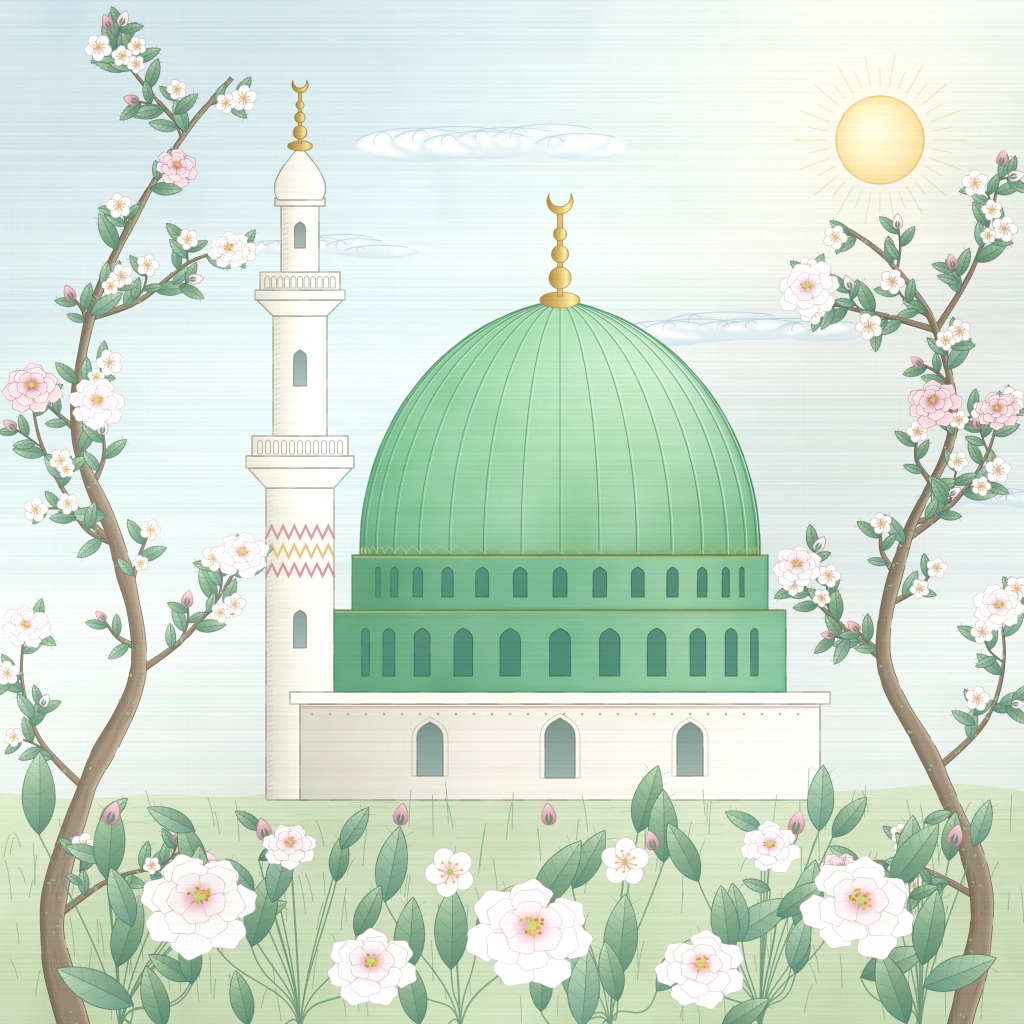
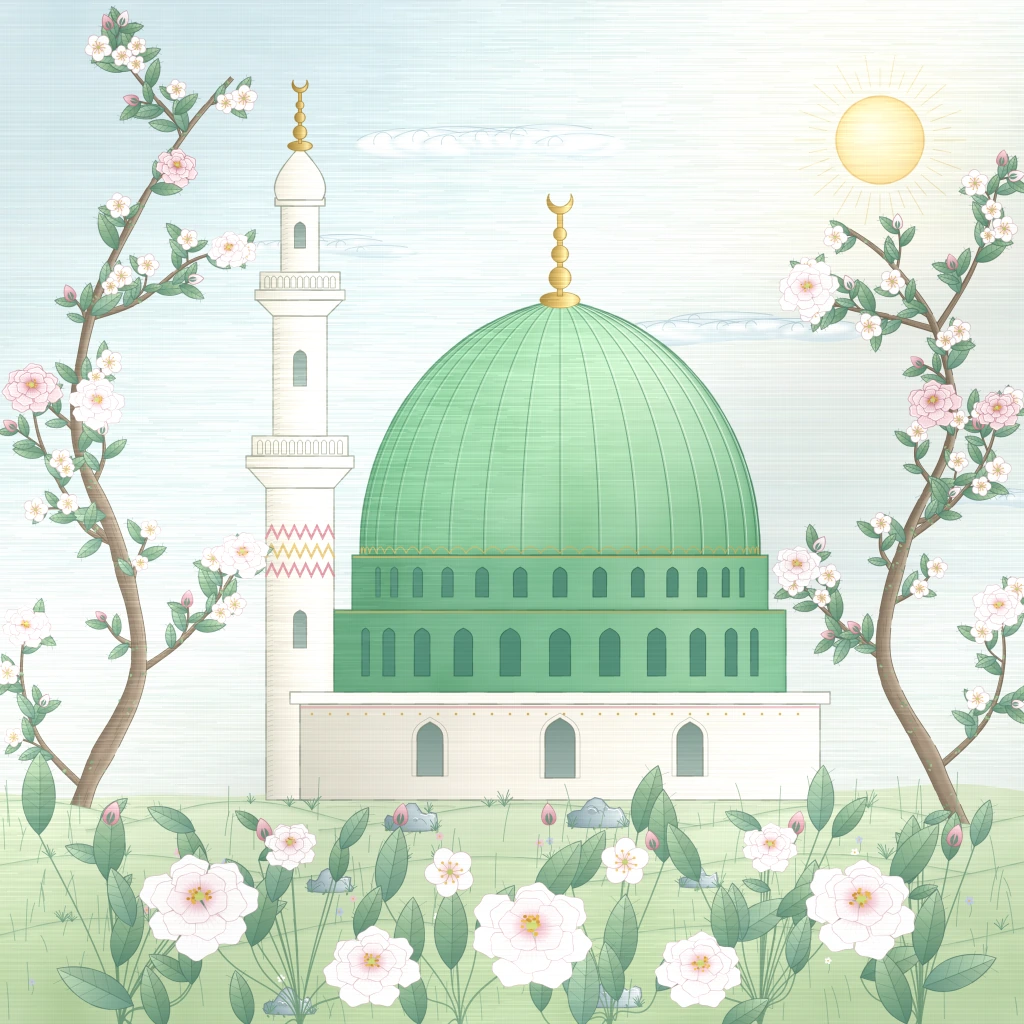
Atölye: doğal ve dekoratif stiller (S-111–S-115) gözden geçirildi
Claude-Session: https://claude.ai/code/session_01Q8CfoBGMPN7gfLWQYpMs1J

diff --git a/atolye/stiller/S-117-el-boyamasi-duvar-kagidi/ornek.html b/atolye/stiller/S-117-el-boyamasi-duvar-kagidi/ornek.html
@@ -676,6 +676,122 @@
   sakayiklar.push([96, 404, 30, 0.5, true, 0.2], [934, 404, 28, 1.2, false, -0.3], [176, 168, 22, 0.9, false, 0.4]);
   for (const [x, y, Rr, rot, b, eg] of sakayiklar) sakayik(x, y, Rr, rot, b, eg);
 
+  // ------------------------------------------------------------ 11. ön bahçe: kat kat yumuşak tümsekler, süs kayaları, ot öbekleri, küçük çiçekler
+  function otObegi(x, y, s) {
+    ctx.save(); ctx.lineWidth = 0.8; ctx.globalAlpha = 0.85;
+    const n = 5 + Math.floor(rnd() * 5);
+    for (let k = 0; k < n; k++) {
+      const a = -Math.PI / 2 + (k / (n - 1) - 0.5) * 1.5 + (rnd() - 0.5) * 0.2;
+      const L = s * (0.6 + rnd() * 0.6) * (1 - Math.abs(k / (n - 1) - 0.5) * 0.7);
+      ctx.strokeStyle = k % 2 ? '#7FA787' : '#5F8F78';
+      ctx.beginPath(); ctx.moveTo(x, y);
+      ctx.quadraticCurveTo(x + Math.cos(a) * L * 0.5, y + Math.sin(a) * L * 0.6, x + Math.cos(a + (a + Math.PI / 2) * 0.35) * L, y + Math.sin(a) * L);
+      ctx.stroke();
+    }
+    ctx.restore();
+  }
+  function kucukCicek(x, y, r, renk) {
+    ctx.save();
+    ctx.strokeStyle = '#7FA787'; ctx.lineWidth = 0.7; ctx.globalAlpha = 0.8;
+    ctx.beginPath(); ctx.moveTo(x, y + r * 4); ctx.quadraticCurveTo(x + r, y + r * 2, x, y); ctx.stroke();
+    ctx.globalAlpha = 0.95;
+    for (let k = 0; k < 5; k++) {
+      const a = (k / 5) * Math.PI * 2 + x;
+      ctx.fillStyle = renk;
+      ctx.beginPath(); ctx.ellipse(x + Math.cos(a) * r * 0.6, y + Math.sin(a) * r * 0.6, r * 0.55, r * 0.38, a, 0, Math.PI * 2); ctx.fill();
+    }
+    ctx.fillStyle = R.ercik; ctx.beginPath(); ctx.arc(x, y, r * 0.28, 0, Math.PI * 2); ctx.fill();
+    ctx.restore();
+  }
+  function kaya(cx, cy, w, h, tohum) {
+    const r = S.rng(tohum);
+    const pts = [];
+    const n = 14;
+    for (let k = 0; k < n; k++) {
+      const a = Math.PI + (k / (n - 1)) * Math.PI; // üst yarı
+      const rr = 1 + (r() - 0.5) * 0.22;
+      pts.push([cx + Math.cos(a) * w * rr, cy + Math.sin(a) * h * rr * (0.85 + 0.3 * Math.sin(k * 1.3))]);
+    }
+    const yol = new Path2D();
+    yol.moveTo(cx - w, cy + h * 0.18);
+    for (const q of pts) yol.lineTo(q[0], q[1]);
+    yol.lineTo(cx + w, cy + h * 0.18);
+    yol.quadraticCurveTo(cx, cy + h * 0.32, cx - w, cy + h * 0.18);
+    yol.closePath();
+    const g = ctx.createLinearGradient(cx + w * 0.6, cy - h, cx - w * 0.6, cy + h * 0.2);
+    g.addColorStop(0, '#E4ECEC'); g.addColorStop(0.45, R.kaya); g.addColorStop(1, R.kayaKoyu);
+    ctx.fillStyle = g; ctx.fill(yol);
+    benek(yol, 0.3);
+    kenarBirikimi(yol, '#7E97A0', 4, 0.35);
+    // kıvrık kaya kırışıkları (ince fırça) ve oyuklar
+    ctx.save(); ctx.clip(yol); ctx.strokeStyle = '#6F8790'; ctx.lineWidth = 0.7; ctx.globalAlpha = 0.6;
+    for (let k = 0; k < 4; k++) {
+      const x0 = cx - w * 0.7 + r() * w * 1.2, y0 = cy - h * (0.2 + r() * 0.6);
+      ctx.beginPath(); ctx.moveTo(x0, y0); ctx.quadraticCurveTo(x0 + w * 0.2, y0 - h * 0.25, x0 + w * (0.25 + r() * 0.2), y0 + h * 0.15); ctx.stroke();
+    }
+    for (let k = 0; k < 2; k++) {
+      const ox = cx + (r() - 0.5) * w * 0.9, oy = cy - h * (0.25 + r() * 0.35), orx = w * (0.08 + r() * 0.06);
+      ctx.fillStyle = 'rgba(110,135,146,0.45)'; ctx.beginPath(); ctx.ellipse(ox, oy, orx, orx * 0.7, 0.3, 0, Math.PI * 2); ctx.fill();
+      ctx.strokeStyle = '#FFFFFF'; ctx.globalAlpha = 0.8; ctx.beginPath(); ctx.ellipse(ox + 0.6, oy - 0.6, orx, orx * 0.7, 0.3, Math.PI * 1.1, Math.PI * 1.9); ctx.stroke(); ctx.globalAlpha = 0.6;
+    }
+    ctx.restore();
+    kontur(yol, '#6A7F86', 0.8, 0.75);
+    // ışık yanında beyaz guaj
+    ctx.save(); ctx.strokeStyle = '#FFFFFF'; ctx.globalAlpha = 0.75; ctx.lineWidth = 1.1;
+    ctx.beginPath(); for (let k = 8; k < n - 1; k++) { const q = pts[k]; const xx = cx + (q[0] - cx) * 0.9, yy = cy + (q[1] - cy) * 0.88; k === 8 ? ctx.moveTo(xx, yy) : ctx.lineTo(xx, yy); } ctx.stroke();
+    ctx.restore();
+    // dipte yosun benekleri ve ot
+    for (let k = 0; k < 7; k++) { ctx.fillStyle = k % 2 ? R.yosun : '#6F9A72'; ctx.globalAlpha = 0.85; ctx.beginPath(); ctx.ellipse(cx - w + r() * 2 * w, cy + h * 0.12 + r() * 4, 1.7, 1.0, r() * 3, 0, Math.PI * 2); ctx.fill(); }
+    ctx.globalAlpha = 1;
+    otObegi(cx - w * 0.85, cy + h * 0.2, 14); otObegi(cx + w * 0.9, cy + h * 0.2, 12);
+  }
+  {
+    // tümsekler: arkadan öne üç sıra, her biri bir öncekini örter
+    const siralar = [
+      { yb: 818, h: [10, 18], w: [120, 190], ust: '#DCE8CC', alt: '#CBDDB9' },
+      { yb: 872, h: [12, 22], w: [140, 220], ust: '#D3E3C0', alt: '#C2D7AE' },
+      { yb: 940, h: [14, 26], w: [160, 240], ust: '#CCDFB8', alt: '#B9D1A4' },
+    ];
+    siralar.forEach((sr, si) => {
+      let x = -60 - rnd() * 80;
+      while (x < 1084) {
+        const w = sr.w[0] + rnd() * (sr.w[1] - sr.w[0]), h = sr.h[0] + rnd() * (sr.h[1] - sr.h[0]);
+        const cx = x + w, tepe = sr.yb - h;
+        const yol = new Path2D();
+        yol.moveTo(cx - w * 1.15, sr.yb + 12);
+        yol.bezierCurveTo(cx - w * 0.6, sr.yb + 4, cx - w * 0.45, tepe, cx, tepe);
+        yol.bezierCurveTo(cx + w * 0.45, tepe, cx + w * 0.6, sr.yb + 4, cx + w * 1.15, sr.yb + 12);
+        yol.lineTo(cx + w * 1.15, 1030); yol.lineTo(cx - w * 1.15, 1030); yol.closePath();
+        const g = ctx.createLinearGradient(0, tepe, 0, tepe + 70);
+        g.addColorStop(0, sr.ust); g.addColorStop(1, sr.alt);
+        ctx.fillStyle = g; ctx.fill(yol);
+        benek(yol, 0.28);
+        // sırt çizgisi: ince kontür ve altında hafif boya birikimi
+        const sirt = new Path2D();
+        sirt.moveTo(cx - w * 1.15, sr.yb + 12);
+        sirt.bezierCurveTo(cx - w * 0.6, sr.yb + 4, cx - w * 0.45, tepe, cx, tepe);
+        sirt.bezierCurveTo(cx + w * 0.45, tepe, cx + w * 0.6, sr.yb + 4, cx + w * 1.15, sr.yb + 12);
+        ctx.save(); ctx.clip(yol); ctx.filter = 'blur(3px)'; ctx.strokeStyle = '#9DBE94'; ctx.globalAlpha = 0.35; ctx.lineWidth = 6; ctx.stroke(sirt); ctx.restore();
+        kontur(sirt, '#86A98A', 0.8, 0.6);
+        // sırtta ot öbekleri
+        for (let k = 0; k < 3; k++) {
+          const t = 0.2 + rnd() * 0.6, ox = cx - w + t * 2 * w;
+          const u = (ox - cx) / w, oy = tepe + (sr.yb + 8 - tepe) * Math.min(1, u * u) + 2;
+          otObegi(ox, oy, 10 + rnd() * 8);
+        }
+        x += w * (1.4 + rnd() * 0.5);
+      }
+      // her sıranın önüne birkaç küçük çiçek
+      for (let k = 0; k < 9; k++) {
+        const x2 = 20 + rnd() * 984, y2 = sr.yb + 18 + rnd() * 30;
+        kucukCicek(x2, y2, 3 + rnd() * 1.8, k % 3 === 0 ? '#B9C6EA' : k % 3 === 1 ? '#FFFFFF' : '#E9C3D4');
+      }
+      if (si === 0) { kaya(412, 826, 26, 22, 31); kaya(598, 822, 30, 24, 32); }
+      if (si === 1) { kaya(330, 888, 22, 18, 33); kaya(700, 884, 20, 16, 34); }
+      if (si === 2) { kaya(612, 1002, 30, 24, 35); kaya(290, 1010, 24, 20, 36); }
+    });
+  }
+
   // ------------------------------------------------------------ 12. önde çiçekli çalılar
   {
     const B = S.bitki;
@@ -727,11 +843,15 @@
         const xs = x / K, ys = y / K;
         // ipeğin çapraz parıltısı
         const bant = (xs * 0.62 + ys * 0.78);
-        const parilti = 0.07 * Math.exp(-Math.pow((bant - 520) / 240, 2)) + 0.035 * Math.exp(-Math.pow((bant - 1120) / 150, 2)) - 0.015 * Math.exp(-Math.pow((bant - 820) / 120, 2));
-        const f = 1 + iplikTon + (profil - 0.64) * 0.05 + dugum * 0.6 + cozgu;
+        let parilti = 0.1 * Math.exp(-Math.pow((bant - 520) / 240, 2)) + 0.05 * Math.exp(-Math.pow((bant - 1120) / 150, 2)) - 0.02 * Math.exp(-Math.pow((bant - 820) / 120, 2));
+        // ipek parıltısı iplik iplik kırılır: her atkı ipliği ışığı biraz farklı yansıtır (yatay ışıltı çizgileri)
+        const isilti = 0.55 + 0.9 * hash(iplik, Math.floor(x / 90 + hash(iplik, 1, 79) * 3), 80);
+        parilti *= isilti * (0.75 + 0.5 * profil);
+        const f = 1 + iplikTon + (profil - 0.64) * 0.07 + dugum * 0.6 + cozgu;
+        // parıltı ipekte hafif sıcak (altınsı) ton verir
         d[j] = clamp(d[j] * f + 255 * parilti, 0, 255);
-        d[j + 1] = clamp(d[j + 1] * f + 252 * parilti, 0, 255);
-        d[j + 2] = clamp(d[j + 2] * f + 245 * parilti, 0, 255);
+        d[j + 1] = clamp(d[j + 1] * f + 250 * parilti, 0, 255);
+        d[j + 2] = clamp(d[j + 2] * f + 236 * parilti, 0, 255);
       }
     }
     ctx.putImageData(im, 0, 0);

diff --git a/atolye/stiller/S-098-guaj-ve-kuru-boya/ornek.html b/atolye/stiller/S-098-guaj-ve-kuru-boya/ornek.html
@@ -385,10 +385,10 @@
     }
   }
   // gök üstünde mavi kalem taraması: yalnız üstte, yer yer, seyrek
-  tarama(null, [0, 0, 1024, 420], -0.5, 7, C.kMavi, 1.5, 0.42, (x, y) => {
+  tarama(null, [0, 0, 1024, 420], -0.06, 6, C.kMavi, 1.4, 0.32, (x, y) => {
     const d = Math.hypot(x - S.gunes.x, y - S.gunes.y);
-    const lek = Math.max(0, n1(x * 0.006 + 3, y * 0.008) - 0.42) * 2.2;
-    return Math.max(0, 0.7 - y / 380) * Math.min(1, Math.max(0, (d - 240) / 160)) * lek;
+    const lek = Math.max(0, n1(x * 0.006 + 3, y * 0.008) - 0.4) * 2.2;
+    return Math.max(0, 0.75 - y / 360) * Math.min(1, Math.max(0, (d - 240) / 160)) * lek;
   }, 901);
   kalemBas();
   // bulutlar: krem guaj, mavi-lila kalemle gevşek kontur ve altta tarama
@@ -414,9 +414,19 @@
     ctx.restore();
     // kalem: bulutun üst yayları boyunca gevşek çizgi, altta lila tarama
     for (const [x, y, r] of daireler) {
-      const pts = [];
-      for (let a = Math.PI * 1.08; a <= Math.PI * 1.92; a += 0.08) pts.push([x + Math.cos(a) * r, y + Math.sin(a) * r]);
-      kalemCizgi(pts, C.kMavi, 1.8, 0.55, { amp: 1, kay: -1.5 });
+      // yalnız dış çizgi: başka bir dairenin içinde kalan yay parçaları çizilmez
+      let pts = [];
+      const bitir = () => {
+        if (pts.length > 2) kalemCizgi(pts, C.kMavi, 1.8, 0.55, { amp: 1, kay: -1.5 });
+        pts = [];
+      };
+      for (let a = Math.PI * 1.0; a <= Math.PI * 2.0; a += 0.06) {
+        const px = x + Math.cos(a) * r, py = y + Math.sin(a) * r;
+        const icte = daireler.some(([x2, y2, r2]) => (x2 !== x || y2 !== y) && Math.hypot(px - x2, py - y2) < r2 - 1);
+        if (icte || py > cy + 2) bitir();
+        else pts.push([px, py]);
+      }
+      bitir();
     }
     kalemCizgi([[sol - 4, cy + 18 * s + 2], [sag + 4, cy + 18 * s + 1]], C.kMavi, 1.8, 0.5, { amp: 1.2 });
     const kyol = new Path2D();
@@ -438,6 +448,32 @@
     g.addColorStop(1, '#F4D3A2');
     return g;
   }, [0, 798, 1024, 1024], { aci: 0.02, olcek: 1.4 });
+  {
+    // toprak tek düz renk değil: ufukta dalgalı kenarlı koyu bir şerit, önde açık kum ve sıcak toprak lekeleri
+    // (her biri ayrı sürülmüş, kenarı fırçadan dalgalı guaj biçimleri)
+    const rz = S.rng(812);
+    let d = 'M-20,798 ';
+    for (let x = -20; x <= 1044; x += 24) d += `L${x},${826 + Math.sin(x * 0.011 + 1.3) * 7 + (rz() - 0.5) * 4} `;
+    d += 'L1044,798 Z';
+    guaj(d, '#E9AD70', [0, 796, 1024, 840], { aci: 0.02, olcek: 1.2, iz: 0.8 });
+    const leke = (cx, cy, rx, ry, renk) => {
+      let dd = '';
+      for (let i = 0; i <= 36; i++) {
+        const a = (i / 36) * Math.PI * 2;
+        const k = 1 + (n1(cx * 0.01 + Math.cos(a) * 1.5, cy * 0.01 + Math.sin(a) * 1.5) - 0.5) * 0.35;
+        dd += `${i ? 'L' : 'M'}${cx + Math.cos(a) * rx * k},${cy + Math.sin(a) * ry * k} `;
+      }
+      guaj(dd + 'Z', renk, [cx - rx * 1.3, cy - ry * 1.4, cx + rx * 1.3, cy + ry * 1.4], { aci: 0.03, olcek: 1.2, iz: 0.9 });
+    };
+    leke(150, 905, 190, 34, '#F7DCAE');
+    leke(560, 870, 230, 30, '#F6D7A4');
+    leke(880, 955, 200, 38, '#F7DCAE');
+    leke(390, 985, 220, 32, '#EDBB82');
+    leke(760, 858, 120, 18, '#EDBB82');
+    // koyu şeritte kalemle seyrek turuncu tarama
+    tarama(P(d), [0, 796, 1024, 840], 0.35, 4, C.kTuruncu, 1.3, 0.4, (x, y) => (n1(x * 0.01, 5) > 0.45 ? 0.8 : 0), 913);
+    kalemBas();
+  }
   {
     // kalem dokusu: kısa turuncu ve kahve tikler, noktalar
     const rr = S.rng(808);
@@ -616,11 +652,24 @@
     // guajla sürülmüş açık yeşil ışık lekesi (kaburga yönünde)
     const prof = S.kubbeProfili(60);
     const mer = (u, t1, t2) => prof.slice(Math.round(t1 * 60), Math.round(t2 * 60) + 1).map((q) => [560 + u * q.r, q.y]);
-    // açık yeşil guaj ışık lekesi (koyunun üstüne örtücü), kubbeye kırpılmış
+    // açık yeşil guaj ışık şeridi (koyunun üstüne örtücü): iki meridyen arasında, kubbenin eğrisini izleyen,
+    // aşağı ve yukarı doğru incelen düz bir biçim; içinde daha açık ikinci bir şerit
+    const isikSerit = (uA, uB, tA, tB) => {
+      const sol = [], sag = [];
+      for (let i = Math.round(tA * 60); i <= Math.round(tB * 60); i++) {
+        const t = i / 60;
+        const k = Math.sin(Math.PI * Math.min(1, Math.max(0, (t - tA) / (tB - tA))));
+        const e = Math.pow(k, 0.55);
+        const um = (uA + uB) / 2, uw = ((uB - uA) / 2) * e;
+        sol.push([560 + (um - uw) * prof[i].r, prof[i].y]);
+        sag.push([560 + (um + uw) * prof[i].r, prof[i].y]);
+      }
+      return S.yol(sol.concat(sag.reverse()), true);
+    };
     ctx.save();
     ctx.clip(yol);
-    guaj(P(S.elipsYolu({ cx: 628, cy: 400, rx: 112, ry: 62, aci: -1.2 })), 'rgba(160,221,134,0.9)', [540, 300, 720, 520], { aci: -Math.PI / 2, iz: 0.8 });
-    guaj(P(S.elipsYolu({ cx: 622, cy: 372, rx: 58, ry: 24, aci: -1.15 })), 'rgba(205,240,160,0.85)', [580, 310, 670, 440], { aci: -Math.PI / 2, iz: 0.8 });
+    guaj(isikSerit(0.14, 0.6, 0.06, 0.97), 'rgba(160,221,134,0.92)', [540, 296, 730, 560], { aci: -Math.PI / 2, iz: 0.8, ince: true, oyna: 1.6 });
+    guaj(isikSerit(0.26, 0.48, 0.3, 0.93), 'rgba(208,241,163,0.9)', [560, 296, 700, 520], { aci: -Math.PI / 2, iz: 0.8, ince: true, oyna: 1.2 });
     ctx.restore();
     // kaburgalar: koyu yeşil kalem; gölge yanında kaburga yönünde tarama; ışık yanında açık sarı-yeşil kalem
     ctx.save();

diff --git a/atolye/stiller/S-115-porselen-boyama/ornek.html b/atolye/stiller/S-115-porselen-boyama/ornek.html
@@ -158,7 +158,7 @@
         // mavi yoğunluk: yukarıda koyu, ufka doğru silinir; tampon izi gibi yumuşak dalgalanma
         let D = Math.pow(clamp(1 - j / 700, 0, 1), 1.15) * (0.82 + 0.36 * (fbm(n1, i / 170, j / 120) - 0.5));
         // ipek tamponun ince benekli izi ve fırçanın yumuşak çapraz çekişleri
-        D *= 1 + 0.13 * (n2(i / 2.4, j / 2.4) - 0.5) + 0.12 * (n3((i + j * 0.6) / 26, (j - i * 0.6) / 5) - 0.5);
+        D *= 1 + 0.13 * (n2(i / 2.4, j / 2.4) - 0.5) + 0.08 * (n3((i + j * 0.6) / 26, (j - i * 0.6) / 5) - 0.5);
         const dg = Math.hypot(i - 880, j - 140);
         D *= yumusak(40, 300, dg); // güneş çevresi silinmiş
         const bm = bulutMaske(i, j);
